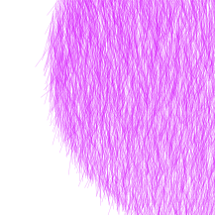
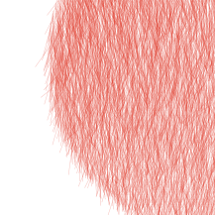
subscribe block

diff --git a/src/SubscribeBlock/SubscribeBlock.js b/src/SubscribeBlock/SubscribeBlock.js
@@ -1,4 +1,5 @@
 import React from "react";
+import classnames from "classnames";
 import { Button, Icon } from "semantic-ui-react";
 
 import s from "./SubscribeBlock.module.css";
@@ -32,54 +33,60 @@ const mailchimpForm = `
 <!--End mc_embed_signup-->
 `;
 
-export const SubscribeBlock = () => (
-  <div className={s["root"]}>
+export const SubscribeBlock = ({ mini, withSocial = true }) => (
+  <div className={classnames(s["root"], mini && s["mini"])}>
     <div className={s["header"]}>
       <span>adaptiff newsletter</span>
     </div>
-    <div className={s["description"]}>
-      new adaptive arts and designs <br />
-      expanding your creative possibilies
-    </div>
+    {mini ? (
+      <div className={s["description"]}>don't miss new element packs</div>
+    ) : (
+      <div className={s["description"]}>
+        new adaptive arts and designs <br />
+        expanding your creative possibilies
+      </div>
+    )}
     <div className={s["input-wrapper"]}>
       <div className={s["mailchimp-wrapper"]}>
         <div dangerouslySetInnerHTML={{ __html: mailchimpForm }} />
       </div>
     </div>
-    <div className={s["social-buttons"]}>
-      <Button
-        icon
-        className={s["social-button"]}
-        target="_blank"
-        href="https://vk.com/adaptiff"
-      >
-        <Icon name="vk" />
-      </Button>
-      <Button
-        icon
-        className={s["social-button"]}
-        target="_blank"
-        href="https://www.instagram.com/adaptiff"
-      >
-        <Icon name="instagram" />
-      </Button>
-      <Button
-        icon
-        className={s["social-button"]}
-        target="_blank"
-        href="https://www.twitter.com/adaptiff_com"
-      >
-        <Icon name="twitter" />
-      </Button>
-      <Button
-        icon
-        className={s["social-button"]}
-        target="_blank"
-        href="https://t.me/adaptiff"
-      >
-        <Icon name="telegram plane" />
-      </Button>
-    </div>
+    {withSocial && (
+      <div className={s["social-buttons"]}>
+        <Button
+          icon
+          className={s["social-button"]}
+          target="_blank"
+          href="https://vk.com/adaptiff"
+        >
+          <Icon name="vk" />
+        </Button>
+        <Button
+          icon
+          className={s["social-button"]}
+          target="_blank"
+          href="https://www.instagram.com/adaptiff"
+        >
+          <Icon name="instagram" />
+        </Button>
+        <Button
+          icon
+          className={s["social-button"]}
+          target="_blank"
+          href="https://www.twitter.com/adaptiff_com"
+        >
+          <Icon name="twitter" />
+        </Button>
+        <Button
+          icon
+          className={s["social-button"]}
+          target="_blank"
+          href="https://t.me/adaptiff"
+        >
+          <Icon name="telegram plane" />
+        </Button>
+      </div>
+    )}
   </div>
 );
 SubscribeBlock.displayName = "SubscribeBlock";

diff --git a/public/adaptations/_common_png.js b/public/adaptations/_common_png.js
@@ -1,0 +1,40 @@
+function screenshot(imgNode) {
+  var format =
+    arguments.length > 1 && arguments[1] !== undefined ? arguments[1] : "png";
+  var quality =
+    arguments.length > 2 && arguments[2] !== undefined ? arguments[2] : 0.97;
+
+  var canvas = document.createElement("canvas");
+  canvas.width = imgNode.width;
+  canvas.height = imgNode.height;
+
+  var context = canvas.getContext("2d");
+  context.filter = getComputedStyle(imgNode).filter;
+
+  imgNode.setAttribute("crossOrigin", "anonymous");
+
+  context.drawImage(imgNode, 0, 0, canvas.width, canvas.height);
+  var url = canvas.toDataURL("image/" + format, quality);
+
+  return {
+    url: url,
+    then: function then(cb) {
+      cb(url);
+    }
+  };
+}
+
+function aff_render(config) {
+  const img = document.querySelector("img");
+  console.log({ img });
+  if (!img) {
+    return;
+  }
+  img.style.filter = `hue-rotate(${config.hue}deg) saturate(${config.saturate}%) brightness(${config.brightness}%) contrast(${config.contrast}%)`;
+}
+function aff_download() {
+  const img = document.querySelector("img");
+  screenshot(img).then(url => {
+    postDownloadImage({ image: url });
+  });
+}

diff --git a/src/Modal/InsertionMenu/InsertionMenu.jsx b/src/Modal/InsertionMenu/InsertionMenu.jsx
@@ -6,6 +6,7 @@ import "./global.overrides.css";
 import s from "./InsertionMenu.module.css";
 import MiniCard from "../../MiniCard/MiniCard";
 import insertionPacks from "./insertionPacks";
+import SubscribeBlock from "../../SubscribeBlock/SubscribeBlock";
 
 export default React.memo(
   ({
@@ -47,7 +48,7 @@ export default React.memo(
         ));
     return (
       <div>
-        <Menu className={"tab-menu"} icon="labeled">
+        <Menu className={"tab-menu tabs-zone"} icon="labeled">
           <Menu.Item
             className={"tab-menu-item"}
             onClick={() => {
@@ -87,6 +88,7 @@ export default React.memo(
         </Menu>
         <div className={"below-tabs-zone"}>
           {activeItem === "object" && renderObjectsTab()}
+          <SubscribeBlock mini={true} withSocial={false} />
         </div>
       </div>
     );

diff --git a/src/_adaptationConfigs/png.js b/src/_adaptationConfigs/png.js
@@ -1,0 +1,43 @@
+export default {
+  title: "png",
+  fileName: "png",
+  author: "test",
+  authorLink: "https://test.com/",
+  thumb: "/thumbs/todo.png",
+  lockAspectRatio: true,
+  isSvg: true, // TODO: change
+  config: [
+    {
+      key: "hue",
+      text: "Hue Rotate",
+      type: "range",
+      defaultValue: 0,
+      min: 0,
+      max: 360
+    },
+    {
+      key: "saturate",
+      text: "Saturate",
+      type: "range",
+      defaultValue: 100,
+      min: 0,
+      max: 500
+    },
+    {
+      key: "brightness",
+      text: "Brightness",
+      type: "range",
+      defaultValue: 100,
+      min: 0,
+      max: 500
+    },
+    {
+      key: "contrast",
+      text: "Contrast",
+      type: "range",
+      defaultValue: 100,
+      min: 0,
+      max: 250
+    }
+  ]
+};

diff --git a/src/Modal/InsertionMenu/insertionPacks.js b/src/Modal/InsertionMenu/insertionPacks.js
@@ -10,7 +10,7 @@ import {
   particlesSvgs,
   paintWork,
   // childishDreamsSvgs,
-  paintedShapes,
+  // paintedShapes,
   curves,
   glitchy,
   blobs,
@@ -54,10 +54,10 @@ export default [
     name: "Round Shapes",
     objects: curves
   },
-  {
-    name: "Weird Painted Shapes",
-    objects: paintedShapes
-  },
+  // {
+  //   name: "Weird Painted Shapes",
+  //   objects: paintedShapes
+  // },
   {
     name: "Particles",
     objects: [...particlesSvgs, unfilledMesh]
@@ -81,8 +81,8 @@ export default [
       gradientWaves,
       trianglify,
       allAdaptations[37],
-      allAdaptations[45],
       allAdaptations[46],
+      allAdaptations[45],
       blobmaker
     ]
   }

diff --git a/src/pages/svgsList.js b/src/pages/svgsList.js
@@ -1,5 +1,6 @@
 import svgWithGradient from "../_adaptationConfigs/svgWithGradient";
 import svgWithSolidColor from "../_adaptationConfigs/svgWithSolidColor";
+import png from "../_adaptationConfigs/png";
 
 export const svgs = [
   {
@@ -1861,6 +1862,19 @@ export const svgs = [
       configValues: {
         palette: ["#C8E5FB", "#B0C5F8"]
       }
+    }
+  },
+  // 142
+  {
+    ...png,
+    pack: "blurredBalls",
+    thumb: "/thumbs/svgs/141.svg",
+    fileName: "svgs/142",
+    thumbBackgroundSize: "100%",
+    aspectRatio: 850 / 850,
+    initState: {
+      size: { width: 1000, height: 1000 },
+      configValues: {}
     }
   }
 ];

diff --git a/public/index.html b/public/index.html
@@ -28,8 +28,8 @@
       work correctly both with client-side routing and a non-root public URL.
       Learn how to configure a non-root public URL by running `npm run build`.
     -->
-    <title>adaptiff — simplified design tool</title>
-    <meta property="og:title" content="adaptiff — simplified design tool">
+    <title>adaptiff — simple design tool</title>
+    <meta property="og:title" content="adaptiff — simple design tool">
     <script src="https://unpkg.com/html2canvas@1.0.0-alpha.12/dist/html2canvas.min.js"></script>
   </head>
   <body>

diff --git a/src/SubscribeBlock/SubscribeBlock.module.css b/src/SubscribeBlock/SubscribeBlock.module.css
@@ -7,6 +7,32 @@
   align-items: center;
 }
 
+.mini.root {
+  margin-top: 30px;
+}
+
+.mini .mailchimp-wrapper {
+  padding: 0 20px;
+}
+
+.mini .header {
+  font-size: 20px;
+}
+
+.mini .description {
+  margin-top: 10px;
+}
+
+.mini :global(#mce-EMAIL),
+.mini :global(#mc_embed_signup .button) {
+  font-size: 13px !important;
+}
+
+.mini :global(#mc_embed_signup .button) {
+  height: 43px !important;
+  line-height: 25px !important;
+}
+
 .header {
   font-weight: bold;
   font-size: 30px;

diff --git a/public/adaptations/svgs/142.html b/public/adaptations/svgs/142.html
@@ -1,0 +1,16 @@
+<head>
+  <meta charset="utf-8" />
+  <link rel="stylesheet" href="../_common.css" />
+  <script src="https://unpkg.com/browse/image-screenshot@0.1.1/lib/index.js"></script>
+</head>
+<body>
+  <head>
+    <meta charset="utf-8" />
+    <link rel="stylesheet" href="../_common.css" />
+  </head>
+  <body>
+    <img id="preview" src="/adaptations/pngs/0.png" />
+    <script src="../_common.js"></script>
+    <script src="../_common_png.js"></script>
+  </body>
+</body>

diff --git a/src/Modal/Modal.js b/src/Modal/Modal.js
@@ -527,7 +527,7 @@ class TheModal extends Component {
           <div
             className={classnames(s["modal-sidebar"], s["modal-right-sidebar"])}
           >
-            <Menu className={"tab-menu"} icon="labeled">
+            <Menu className={"tab-menu tabs-zone art-tabs-zone"} icon="labeled">
               <Menu.Item
                 active={this.state.configMode === "element"}
                 onClick={() => this.setState({ configMode: "element" })}

diff --git a/src/Modal/global.overrides.css b/src/Modal/global.overrides.css
@@ -65,9 +65,20 @@
   border: 1px solid rgb(177, 177, 177);
 }
 
+.tab-menu.tabs-zone {
+  padding-bottom: 10px !important;
+  box-shadow: 0 18px 22px 0px #bebebe21 !important;
+  z-index: 100002; /* overcome collapse-button */
+}
+
+.tab-menu.art-tabs-zone {
+  z-index: 100001;
+}
+
 .below-tabs-zone {
   position: absolute;
-  top: 105px;
+  top: 80px;
+  padding-top: 25px;
   bottom: 0;
   left: 0;
   right: 0;

diff --git a/src/Modal/ArtConfig/ArtConfig.js b/src/Modal/ArtConfig/ArtConfig.js
@@ -98,6 +98,7 @@ export default React.memo(
               <Range
                 min={config.min}
                 max={config.max}
+                configKey={config.key}
                 value={configValues[config.key]}
                 onChange={value => setConfigValue(config.key, value)}
               />
